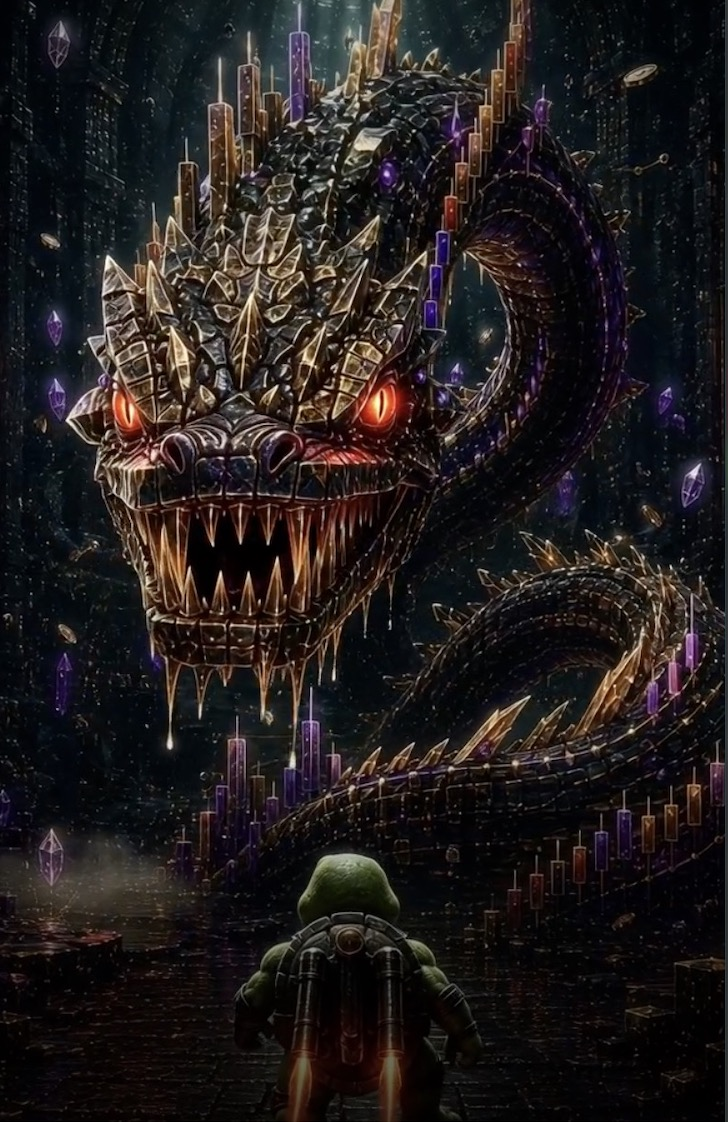
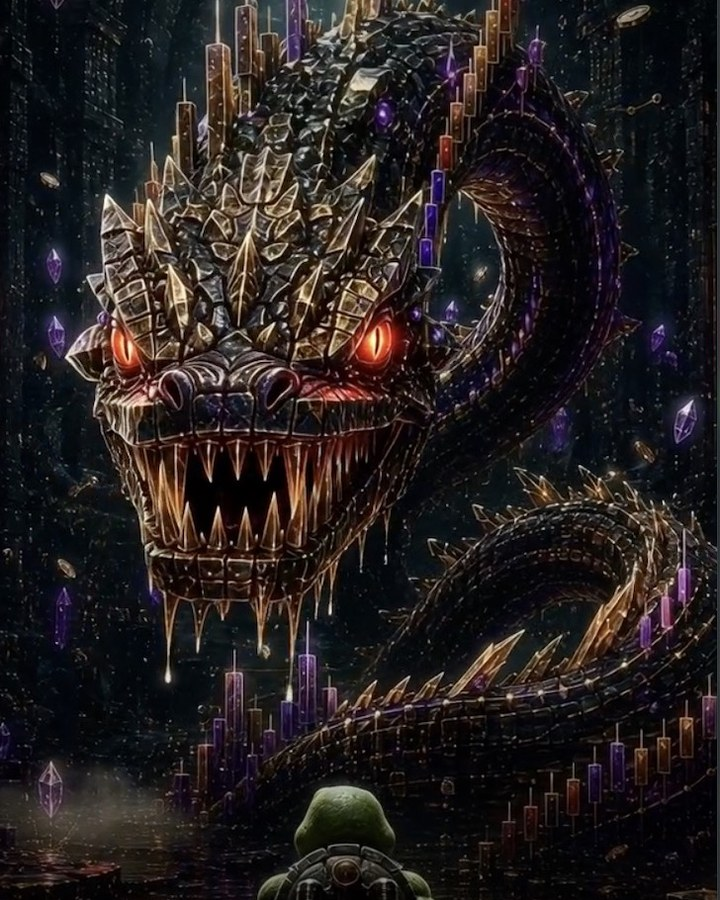
polish(site): uniform 4:5 crops for the "Three ways to play" cards
Re-cropped EXPLORE/TRADE/BATTLE to identical 720x900 (4:5) frames with per-image
framing (EXPLORE full chart, TRADE keeps the stop/entry/target pills, BATTLE
features the eyes+fangs), and switched the card to object-fit:cover so they fill
edge-to-edge with zero margins. Adds a subtle bottom fade.

diff --git a/website/index.html b/website/index.html
@@ -180,9 +180,10 @@ img{max-width:100%;display:block;height:auto}
 .pillar .scene{position:relative;aspect-ratio:4/5;overflow:hidden;border-bottom:1px solid var(--line);background:radial-gradient(120% 120% at 50% 45%,rgba(22,199,132,.08),#05090f)}
 .pillar .scene svg{position:absolute;inset:0;width:100%;height:100%}
 .pillar .scene .finn{position:absolute;bottom:8px;width:78px;z-index:2;filter:drop-shadow(0 8px 12px rgba(0,0,0,.5))}
-/* uniform card size; show each pre-cropped image in full (no re-cropping) */
-.pillar .scene .shot{position:absolute;inset:0;width:100%;height:100%;object-fit:contain;object-position:center;z-index:1;transition:transform .45s ease}
-.pillar:hover .scene .shot{transform:scale(1.03)}
+/* images are pre-cropped to a uniform 4:5, so cover fills each card edge-to-edge with no crop/margins */
+.pillar .scene .shot{position:absolute;inset:0;width:100%;height:100%;object-fit:cover;object-position:center;z-index:1;transition:transform .45s ease}
+.pillar:hover .scene .shot{transform:scale(1.04)}
+.pillar .scene::after{content:"";position:absolute;inset:0;z-index:2;pointer-events:none;background:linear-gradient(180deg,transparent 66%,rgba(5,9,15,.42))}
 .pillar .body{padding:22px 22px 26px}
 .pillar .tagn{font-family:var(--mono);font-size:11px;font-weight:800;letter-spacing:.16em;text-transform:uppercase}
 .pillar.explore .tagn{color:var(--green)}.pillar.trade .tagn{color:var(--cyan)}.pillar.battle .tagn{color:var(--gold)}